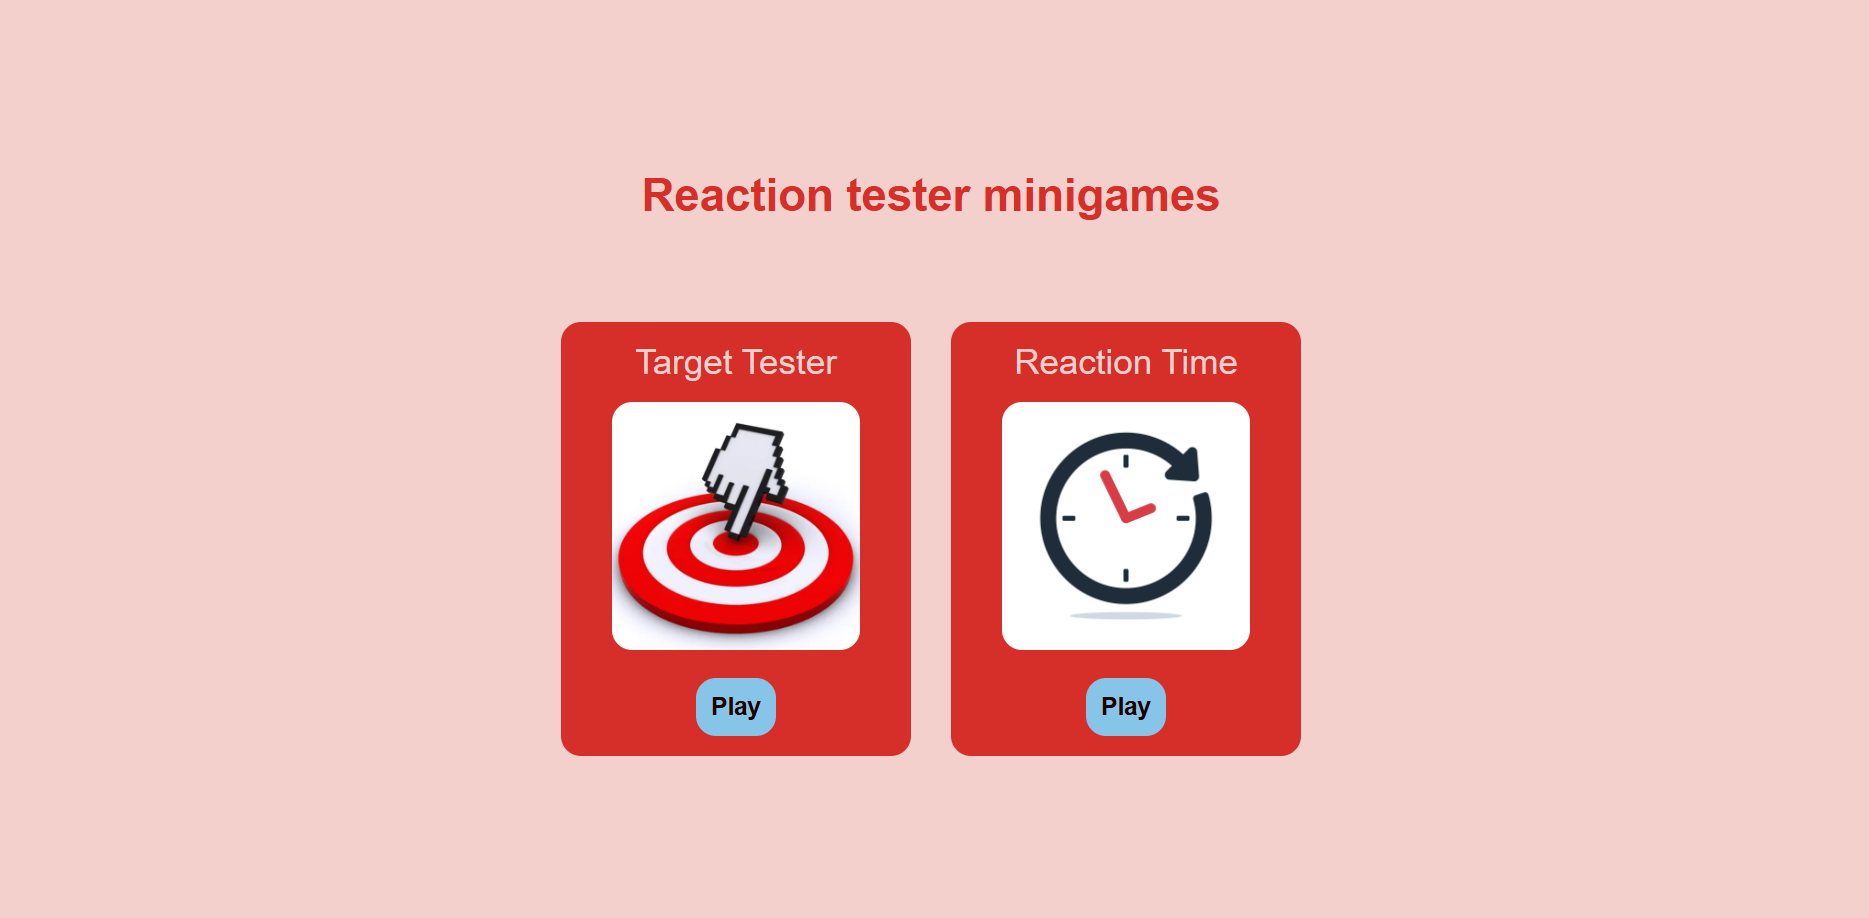
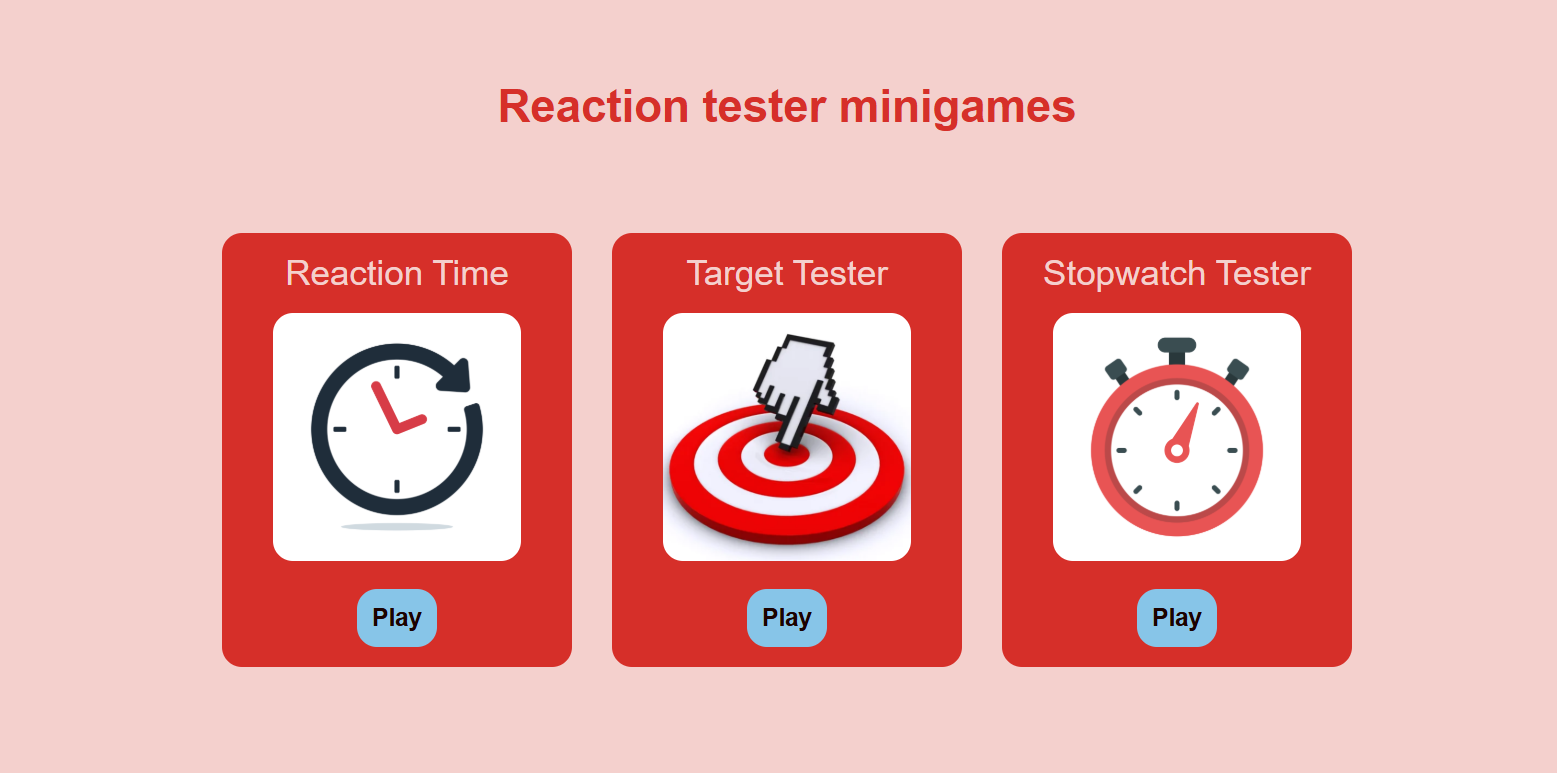
made small changes to README

diff --git a/README.md b/README.md
@@ -21,11 +21,11 @@ git  clone  https://github.com/Pampu-Rares/reaction-tester.git
 
 ### Main Page
 
-The main page displays a list of all of the available minigames. Currently, there are two of them.
-- A third minigame will be added soon🔜
-- Each mode offers the option for both 1-player and 2-player
+The main page displays a list of all of the available minigames. Currently, there are three of them.
 
-![Main Page](./media/readme_thumbnails/mainPagePrev.png)
+- Each one offers the option for both 1-player and 2-player
+
+![Main Page](./media/readme_thumbnails/mainPagePrev.png?)
 
 ### Target Tester Minigame
 